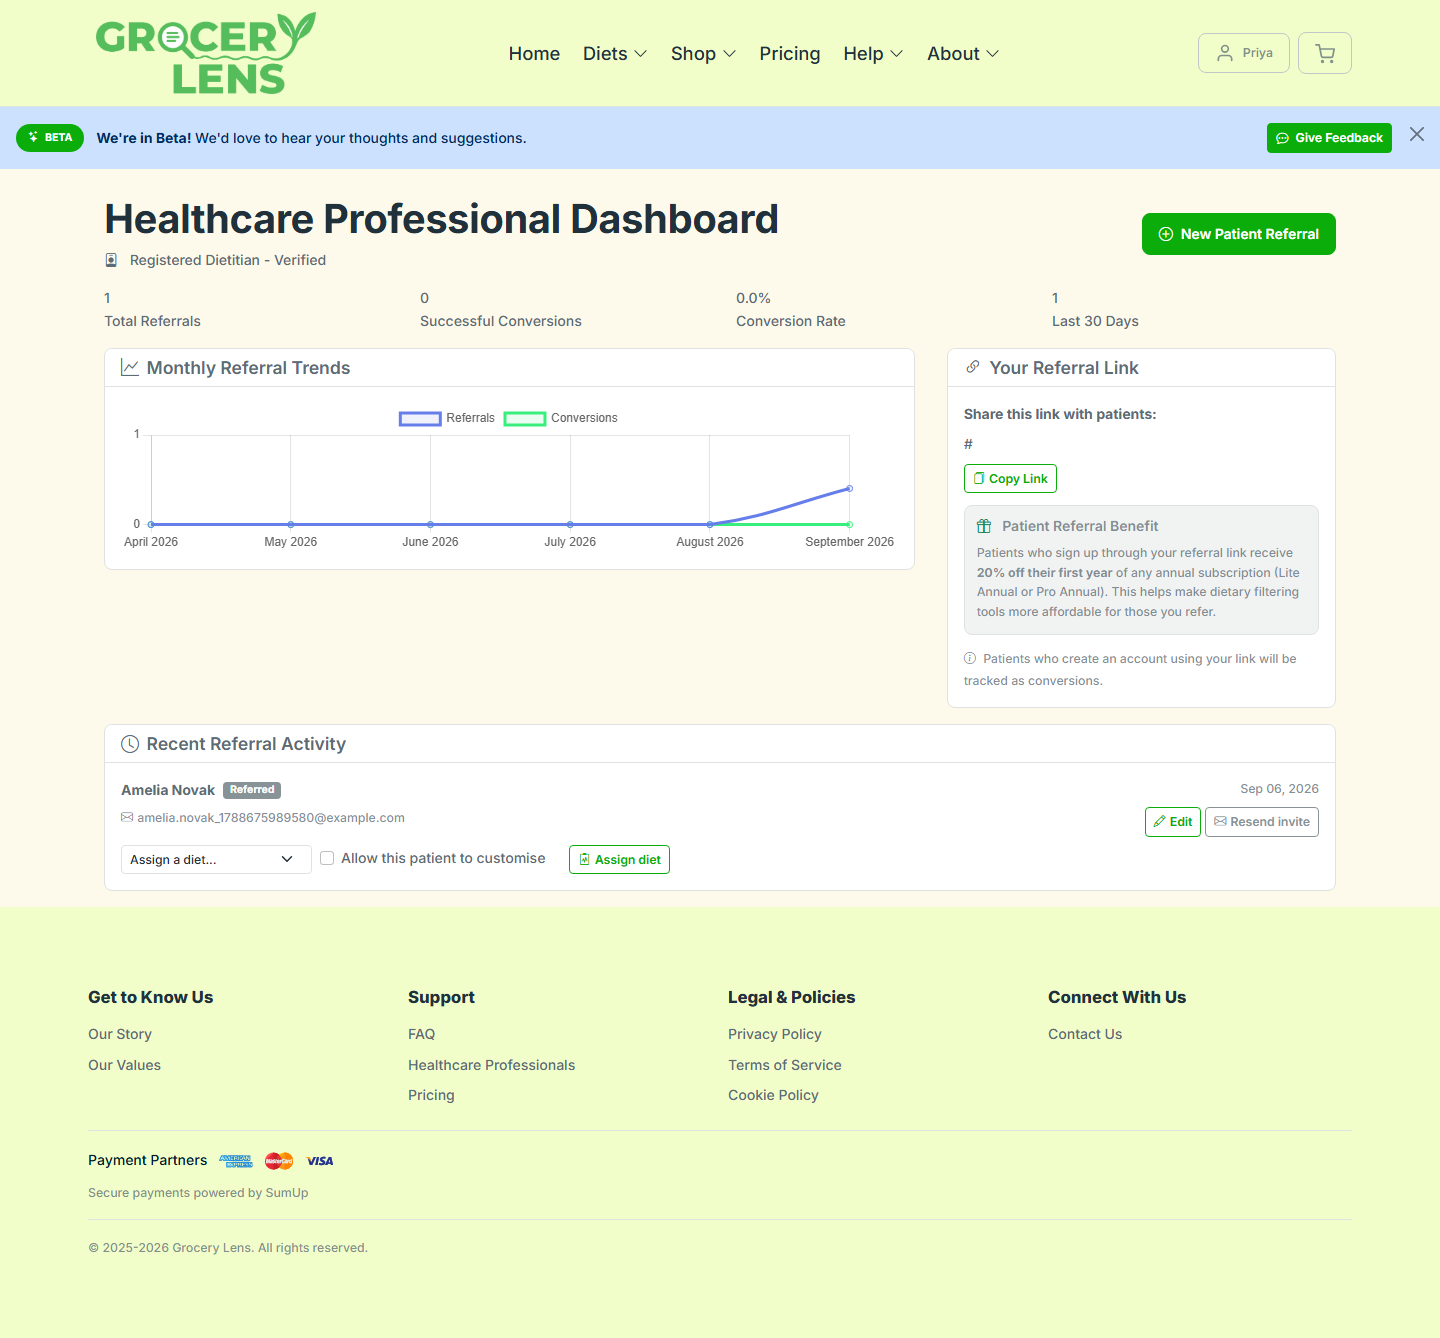
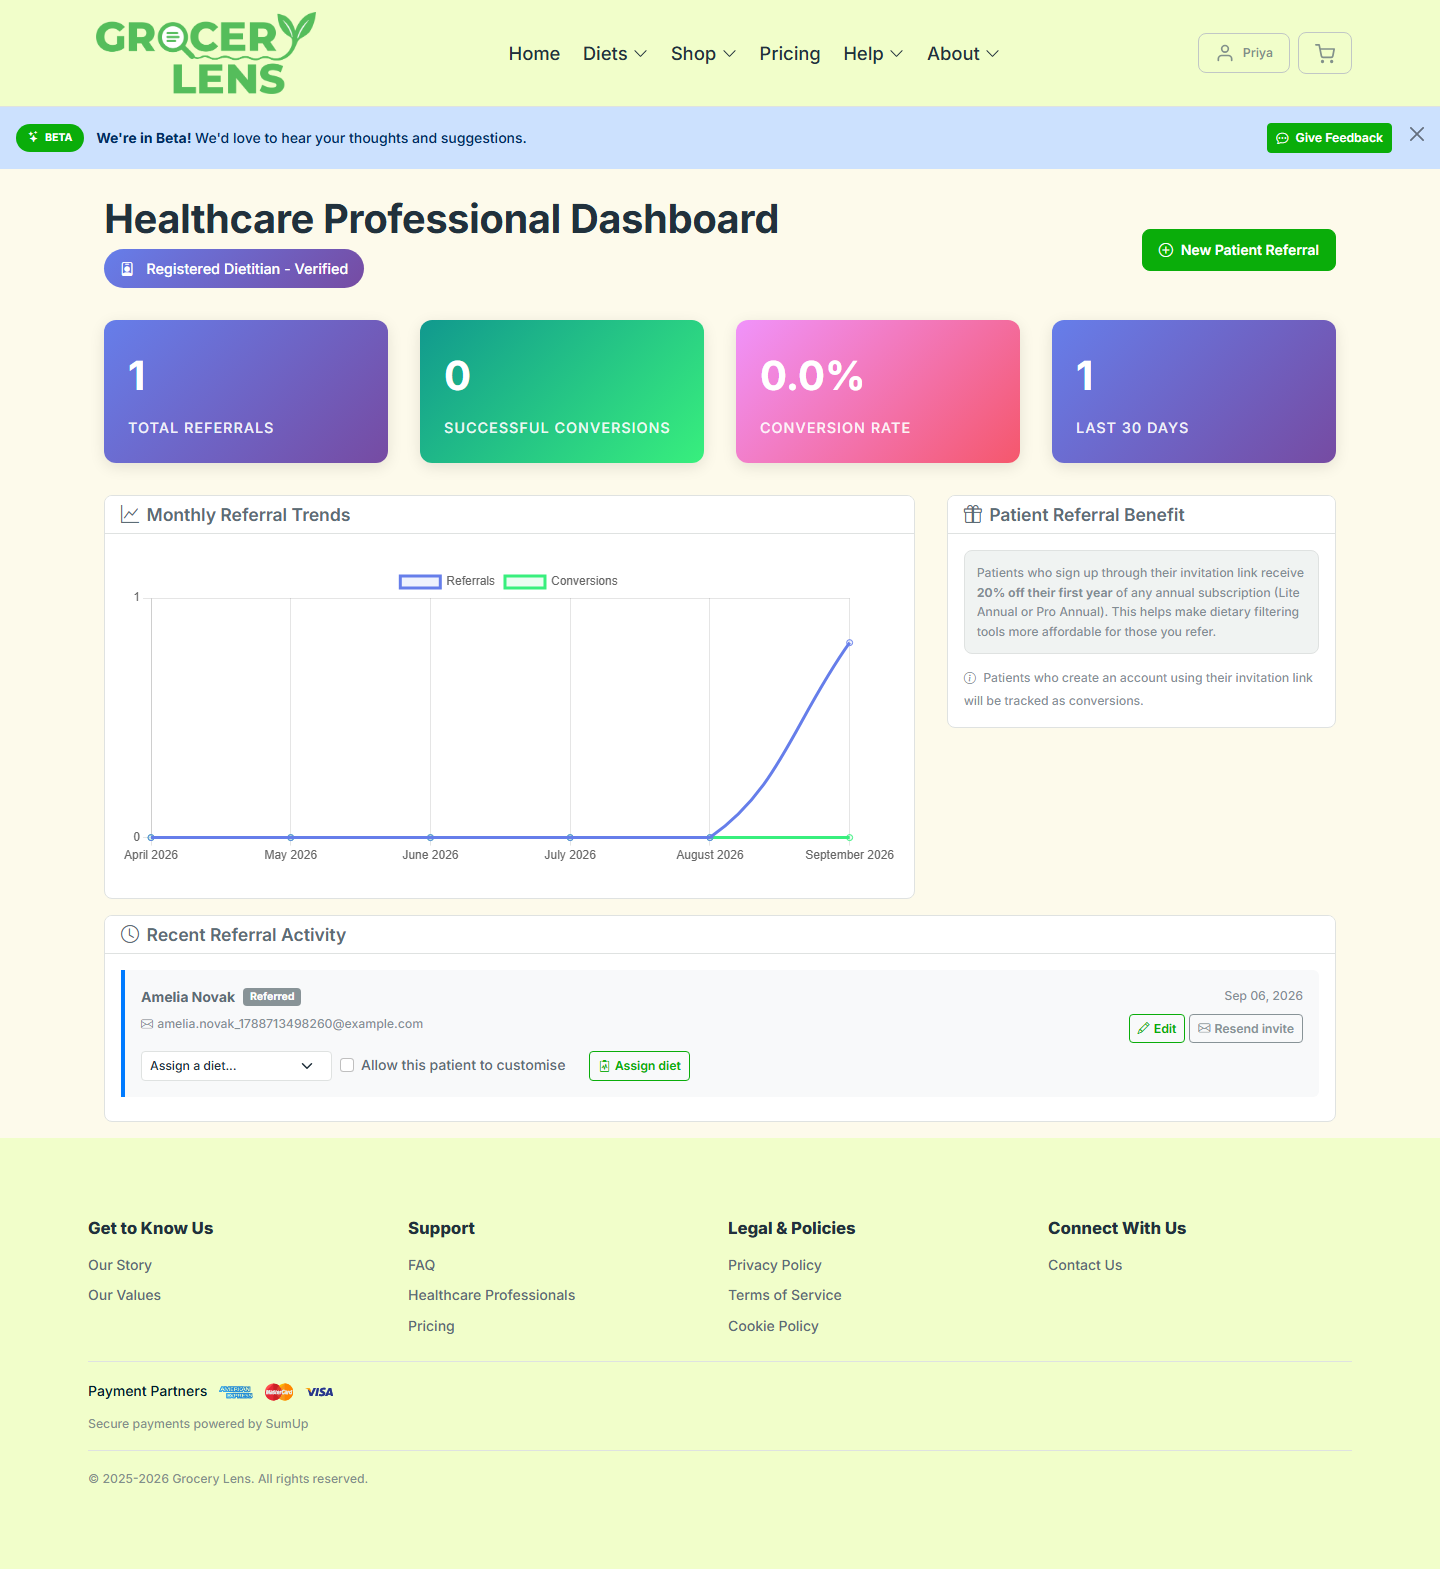
Refresh PR #771 screenshots with the dashboard styles applied
Adds the caseload/pagination views and regenerates the set: the dashboard declared a CSS block base.html does not render, so every earlier shot of it was unstyled.

diff --git a/pr-771-hcp-diet-sharing/README.md b/pr-771-hcp-diet-sharing/README.md
@@ -21,11 +21,17 @@ HEADLESS=true uv run pytest billing/tests/playwright/test_screenshot_walkthrough
 | `09-patient-fork-of-shared-diet.png` | The diet builder after the patient opens the customisable shared diet: it forks into a private copy the patient owns, editable. |
 | `10-fork-community-option-disabled.png` | The fork's Visibility control: the Community option is disabled, with the note "Shared with you by Priya Chandrasekaran, Riverside Community Clinic, so this diet stays private." The server still refuses the change if it is forced through. |
 | `11-patient-diet-list-after-revoke.png` | The patient's diet list after the professional revokes the share: the shared original is gone. The "Low FODMAP Protocol" still listed here is the patient's own private fork from step 9, unaffected by the revoke -- not the revoked share. |
+| `12-dashboard-many-referrals-page-1.png` | A practitioner with a caseload: the referral list pages at ten, each patient in their own card with their own assign controls. |
+| `13-dashboard-many-referrals-page-2.png` | The second page, showing the older patients stay reachable — assign and revoke live on these rows, so a referral that never renders cannot be managed. |
 
 ## Notes for reviewers
 
-- The "Your Referral Link" panel on the dashboard renders as a bare `#` (visible in every dashboard
-  screenshot). This is not an artifact of the test environment: `referral_url` is the hardcoded string
-  `"#"` at `billing/views_freemium.py:345`, left behind when the shared HCP referral code was replaced by
-  per-patient links. Every real professional sees the same dead panel and a Copy Link button that copies
-  `#`. Pre-existing, out of scope for this branch, raised separately.
+- The dashboard used to carry a "Your Referral Link" panel that rendered a bare `#` and a Copy Link
+  button that copied it: `referral_url` was hardcoded to `"#"`, left behind when the shared HCP referral
+  code was replaced by per-patient links. The dead panel is removed on this branch; what remains in that
+  column is the referral-benefit copy, which is still true.
+
+- These screenshots are the first ones taken with the dashboard's own stylesheet actually applied. The
+  page declared `{% block extra_css %}`, which `base.html` does not render, so every style on it — the
+  metric cards, the per-patient cards, the professional badge — was silently dropped. Earlier
+  screenshots on this branch show the unstyled page.
